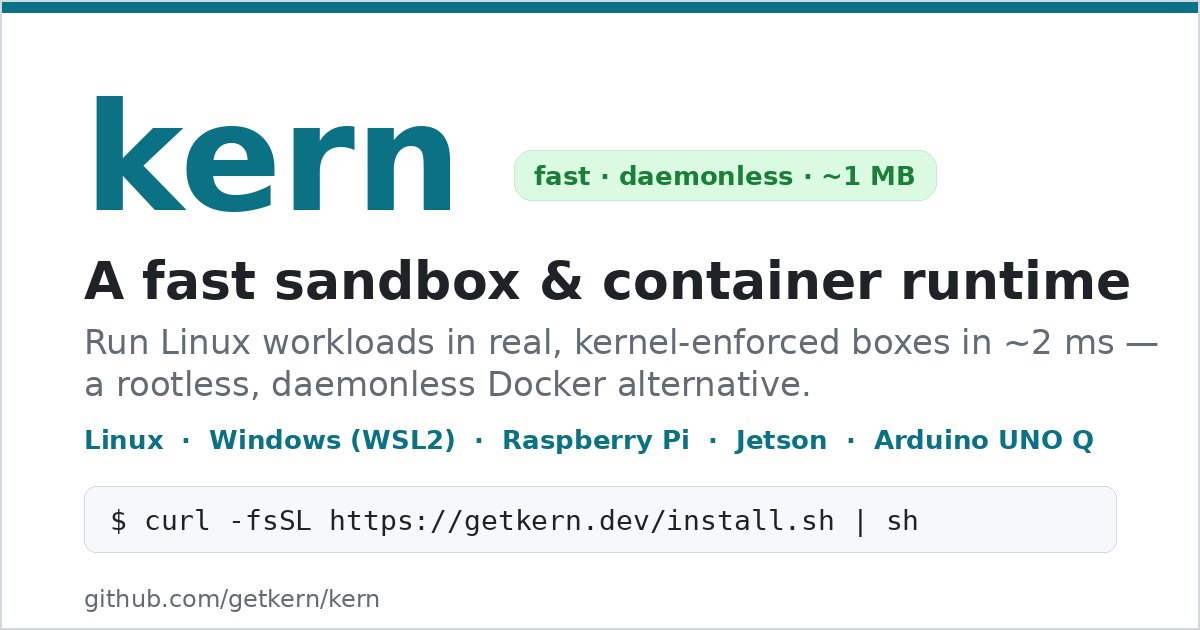
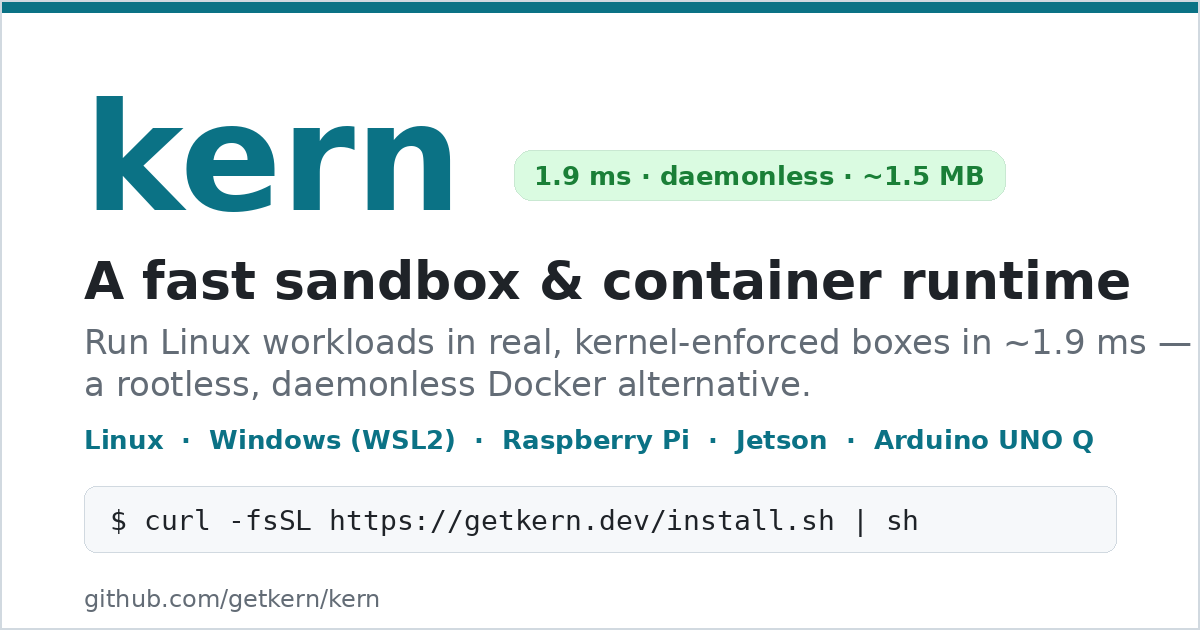
docs: align every stated number to ONE story — 1.9 ms · ~1.5 MB · ~300 ms
No more mixed 2 ms / 1.9 ms / 5.5 ms / ~1 MB / 308 ms across README, the demo
SVG, the site hero, the SEO meta/JSON-LD and the og:image. 1.9 ms is the real
measured bare-box cold start; the capped 5.5 ms and precise per-machine values
live ONLY in the benchmark table, labeled. Consistency > rounding.

Changed region(s): [[0.4317, 0.2111, 0.8633, 0.3317], [0.8633, 0.5127, 0.9867, 0.573]]

diff --git a/site/index.html b/site/index.html
@@ -5,7 +5,7 @@
 <meta name="viewport" content="width=device-width, initial-scale=1">
 
 <title>kern — a fast, daemonless sandbox &amp; container runtime (Docker alternative)</title>
-<meta name="description" content="kern runs Linux workloads in real, kernel-enforced sandboxes in ~2 ms — a daemonless, ~1 MB Docker alternative. Installs on Linux, Windows (WSL2) and ARM boards (Raspberry Pi, Jetson, Arduino UNO Q).">
+<meta name="description" content="kern runs Linux workloads in real, kernel-enforced sandboxes in ~1.9 ms — a daemonless, ~1.5 MB Docker alternative. Installs on Linux, Windows (WSL2) and ARM boards (Raspberry Pi, Jetson, Arduino UNO Q).">
 <meta name="keywords" content="kern, sandbox, container runtime, Docker alternative, daemonless, rootless, seccomp, cgroups, WSL2, Windows containers, Raspberry Pi, Jetson, ARM, edge, agent sandbox, code execution, OCI, microVM alternative, Firecracker alternative, E2B alternative">
 <meta name="author" content="kern contributors">
 <meta name="robots" content="index, follow, max-image-preview:large, max-snippet:-1">
@@ -18,7 +18,7 @@
 <meta property="og:site_name" content="kern">
 <meta property="og:url" content="https://getkern.dev/">
 <meta property="og:title" content="kern — a fast, daemonless sandbox &amp; container runtime">
-<meta property="og:description" content="Run Linux workloads in real, kernel-enforced sandboxes in ~2 ms. A daemonless, ~1 MB Docker alternative — Linux, Windows (WSL2) and ARM boards.">
+<meta property="og:description" content="Run Linux workloads in real, kernel-enforced sandboxes in ~1.9 ms. A daemonless, ~1.5 MB Docker alternative — Linux, Windows (WSL2) and ARM boards.">
 <meta property="og:image" content="https://raw.githubusercontent.com/getkern/kern/main/site/og-image.png">
 <meta property="og:image:width" content="1200">
 <meta property="og:image:height" content="630">
@@ -27,7 +27,7 @@
 <!-- Twitter -->
 <meta name="twitter:card" content="summary_large_image">
 <meta name="twitter:title" content="kern — a fast, daemonless sandbox &amp; container runtime">
-<meta name="twitter:description" content="Run Linux workloads in real, kernel-enforced sandboxes in ~2 ms. A daemonless, ~1 MB Docker alternative — Linux, Windows (WSL2) and ARM boards.">
+<meta name="twitter:description" content="Run Linux workloads in real, kernel-enforced sandboxes in ~1.9 ms. A daemonless, ~1.5 MB Docker alternative — Linux, Windows (WSL2) and ARM boards.">
 <meta name="twitter:image" content="https://raw.githubusercontent.com/getkern/kern/main/site/og-image.png">
 
 <link rel="preconnect" href="https://raw.githubusercontent.com" crossorigin>
@@ -39,7 +39,7 @@
   "@context": "https://schema.org",
   "@type": "SoftwareApplication",
   "name": "kern",
-  "description": "A fast, daemonless, rootless sandbox and virtual resource manager — run Linux workloads in real kernel-enforced boxes in ~2 ms. A ~1 MB Docker alternative.",
+  "description": "A fast, daemonless, rootless sandbox and virtual resource manager — run Linux workloads in real kernel-enforced boxes in ~1.9 ms. A ~1.5 MB Docker alternative.",
   "applicationCategory": "DeveloperApplication",
   "operatingSystem": "Linux, Windows (WSL2), aarch64/ARM",
   "url": "https://getkern.dev/",
@@ -113,10 +113,10 @@
   <h1>kern</h1>
 
   <p class="tagline">A fast, lightweight sandbox &amp; virtual resource manager. <span class="pill" id="pill">early — but it runs</span></p>
-  <p class="sub"><strong>~5.5&nbsp;ms</strong> to a rootless, kernel-enforced box — vs <strong>~308&nbsp;ms</strong>
+  <p class="sub"><strong>~1.9&nbsp;ms</strong> to a rootless, kernel-enforced box — vs <strong>~300&nbsp;ms</strong>
     for <code>docker run</code>. Daemonless, no root, no runtime to install. Runs on
     <strong>Linux</strong>, <strong>Windows (via WSL2)</strong>, and <strong>ARM boards</strong> —
-    Raspberry&nbsp;Pi, NVIDIA&nbsp;Jetson, Arduino&nbsp;UNO&nbsp;Q — the same&nbsp;~1&nbsp;MB binary everywhere.</p>
+    Raspberry&nbsp;Pi, NVIDIA&nbsp;Jetson, Arduino&nbsp;UNO&nbsp;Q — the same&nbsp;~1.5&nbsp;MB binary everywhere.</p>
 
   <div class="install">
     <span class="mono"><span class="prompt">$ </span><code id="cmd">curl -fsSL https://raw.githubusercontent.com/getkern/kern/main/install.sh | sh</code></span>
@@ -136,7 +136,7 @@
     <span class="mono"><span class="prompt">$ </span><code>scp kern &lt;board&gt;:  &amp;&amp;  ssh &lt;board&gt; kern box edge --image alpine -- sh</code></span>
     <button class="cp" data-cmd="scp kern <board>: && ssh <board> kern box edge --image alpine -- sh" aria-label="copy board install command">copy</button>
   </div>
-  <p class="note"><strong>ARM boards</strong> (Raspberry&nbsp;Pi, NVIDIA&nbsp;Jetson, Arduino&nbsp;UNO&nbsp;Q) — one&nbsp;~1&nbsp;MB
+  <p class="note"><strong>ARM boards</strong> (Raspberry&nbsp;Pi, NVIDIA&nbsp;Jetson, Arduino&nbsp;UNO&nbsp;Q) — one&nbsp;~1.5&nbsp;MB
     static binary you <code>scp</code> and run: no daemon, no package. Or run the one-liner above on the board
     (it auto-detects aarch64). Runs where Docker won't even install — see
     <a href="https://github.com/getkern/kern/blob/main/EDGE.md">EDGE.md</a>.</p>

diff --git a/README.md b/README.md
@@ -4,7 +4,7 @@
 
 **A fast, lightweight sandbox & virtual resource manager.**
 
-Run untrusted or agent-generated code in a real, kernel-enforced sandbox that starts in **~2 ms** —
+Run untrusted or agent-generated code in a real, kernel-enforced sandbox that starts in **~1.9 ms** —
 a **~1.5 MB** rootless binary, **no daemon, no VM**. Embed it from Python or Rust, or drive it from the
 CLI; run it on your laptop, in CI, or on a Raspberry Pi where Docker won't even install.
 
@@ -16,7 +16,7 @@ CLI; run it on your laptop, in CI, or on a Raspberry Pi where Docker won't even 
 [![Release](https://img.shields.io/github/v/release/getkern/kern?label=release&color=brightgreen)](https://github.com/getkern/kern/releases/latest)
 
 <p align="center">
-  <img src="assets/demo.svg" width="780" alt="Terminal demo: a kern.toml defines reusable vcpu/vdisk/vgpio (device) profiles; 'kern box train --image alpine vcpu:heavy vdisk:scratch' attaches a 4-vCPU, 2 GB, 8 GB-scratch rootless isolated slice in a few ms (docker run takes ~308 ms); 'kern run vcpu:heavy -- ffmpeg' caps a heavy transcode with no sandbox; 'kern box iot --image alpine vgpio:sensor' exposes only /dev/i2c-1 and nothing else; piping a request into 'kern box fn --image python' runs it in a fresh isolated box per request (serverless style); 'kern compose stack.toml up' brings up a multi-box stack; 'kern top' is the live TUI for boxes, profiles and volumes — CPU, memory, disk and devices, sliced per box, in one ~1.5 MB static binary, no daemon.">
+  <img src="assets/demo.svg" width="780" alt="Terminal demo: a kern.toml defines reusable vcpu/vdisk/vgpio (device) profiles; 'kern box train --image alpine vcpu:heavy vdisk:scratch' attaches a 4-vCPU, 2 GB, 8 GB-scratch rootless isolated slice in a few ms (docker run takes ~300 ms); 'kern run vcpu:heavy -- ffmpeg' caps a heavy transcode with no sandbox; 'kern box iot --image alpine vgpio:sensor' exposes only /dev/i2c-1 and nothing else; piping a request into 'kern box fn --image python' runs it in a fresh isolated box per request (serverless style); 'kern compose stack.toml up' brings up a multi-box stack; 'kern top' is the live TUI for boxes, profiles and volumes — CPU, memory, disk and devices, sliced per box, in one ~1.5 MB static binary, no daemon.">
 </p>
 
 [Install](#install) · [Quickstart](#quickstart) · [Build & publish](#build--publish-images) · [Embed (Rust / Python)](#embed-it) · [How it works](#how-it-works) · [Benchmarks](BENCHMARKS.md) · [Security](SECURITY.md)
@@ -46,7 +46,7 @@ territory, but *local* and ~1.5 MB — no cloud, no account, no VM):
 ```python
 import kern_sandbox as kern
 r = kern.run_code("print(sum(range(100)))")   # network OFF, hard caps, a timeout the binding enforces
-print(r.stdout, r.success)                     # → a fresh 2 ms box, discarded after
+print(r.stdout, r.success)                     # → a fresh 1.9 ms box, discarded after
 ```
 
 ## Why kern
@@ -367,7 +367,7 @@ travel off-argv. See [ARCHITECTURE.md](ARCHITECTURE.md).
 One isolated `/bin/true`, warm image cache, one box per run. The x86_64 row is **re-measured on an
 Intel i7-14700KF, Linux 6.17**, pinned to a P-core to isolate the hybrid P/E-core scheduler (an
 `/bin/true` box that lands on an E-core runs ~2.1 ms — same class): median of 200 (kern) / 20 (engines)
-sequential runs. kern here: **median 1.7 ms, avg 1.9 ms, best 1.6 ms** (~2 ms unpinned/typical). Your
+sequential runs. kern here: **median 1.7 ms, avg 1.9 ms, best 1.6 ms** (~1.9 ms unpinned/typical). Your
 numbers vary with hardware and load. Board rows are from on-device runs; full method in
 **[BENCHMARKS.md](BENCHMARKS.md)**.
 
@@ -386,7 +386,7 @@ kern is the fastest sandbox here at **~1.9 ms** (ahead of bubblewrap). Its *own*
 (the `KERN_TIMING` phases — `unshare` + overlay + `/dev` + pivot + seccomp, each sub-ms); the rest is
 process start + teardown. Adding a hard cgroup cap (the row above doesn't) brings it to **~6 ms** — but
 **~4 ms of that is external `systemd-run` + D-Bus scope creation, not kern** (`systemd-run --user --scope
--- true` alone is ~4 ms), opt-out with `KERN_NO_SCOPE` (back to ~2 ms, best-effort in-process cgroup). The
+-- true` alone is ~4 ms), opt-out with `KERN_NO_SCOPE` (back to ~1.9 ms, best-effort in-process cgroup). The
 top tier is all within a few ms — *nobody* wins single-shot latency outright. The real gap is to the
 **engines**: **~120–150× faster** than podman/Docker (~300 ms), which round-trip a daemon every run — yet
 kern alone ships a full daemonless container UX in ~1.5 MB. Beyond one start: **~500 boxes/s**, **~7 MB**
@@ -465,7 +465,7 @@ kern isolates with Linux **namespaces + seccomp + a read-only userns root** — 
 deny-by-default on devices, with the host's sysfs/procfs masked. That's strong for first-party and
 noisy-neighbour workloads. For **adversarial, multi-tenant untrusted code** where you want a
 hardware-virtualization boundary, a microVM/VM adds a layer kern doesn't — a deliberate trade for
-~2 ms starts and a ~1.5 MB footprint.
+~1.9 ms starts and a ~1.5 MB footprint.
 
 The full threat model, per-feature notes, and the honest *"kern vs a microVM — when to use what"*
 guidance live in [SECURITY.md](SECURITY.md). Found a vulnerability? Report it **privately** via GitHub